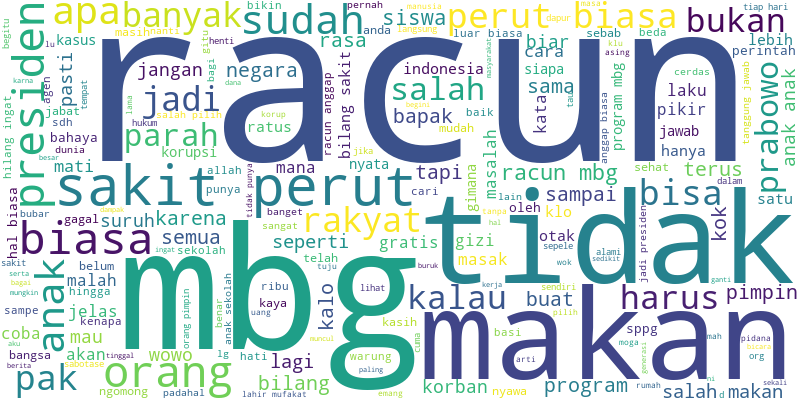
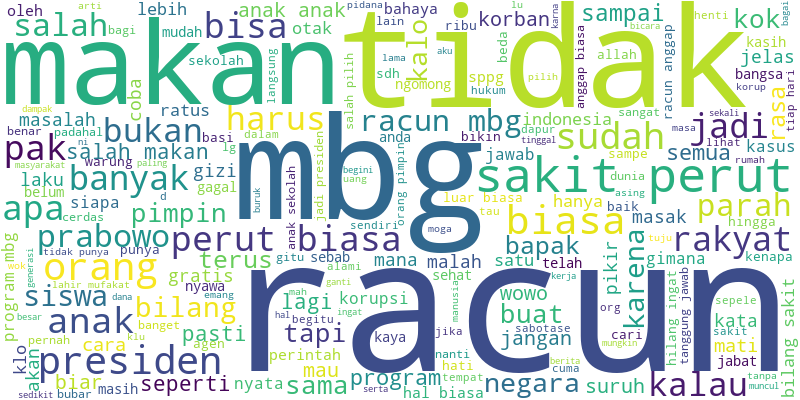
nambah file

diff --git a/contoh_praproses.py b/contoh_praproses.py
@@ -1,0 +1,15 @@
+import pandas as pd
+from praproses import bersihkan, tokenisasi, hapus_stopword, stemming
+
+df = pd.read_csv("komentar_mentah.csv")
+for k in df["komentar"].dropna().sample(3, random_state=1):
+    print("Mentah   :", k)
+    print("Folding  :", k.lower())
+    b = bersihkan(k)
+    print("Cleaning :", b)
+    t = tokenisasi(b)
+    print("Token    :", t)
+    s = hapus_stopword(t)
+    print("Stopword :", s)
+    print("Stemming :", stemming(s))
+    print()
